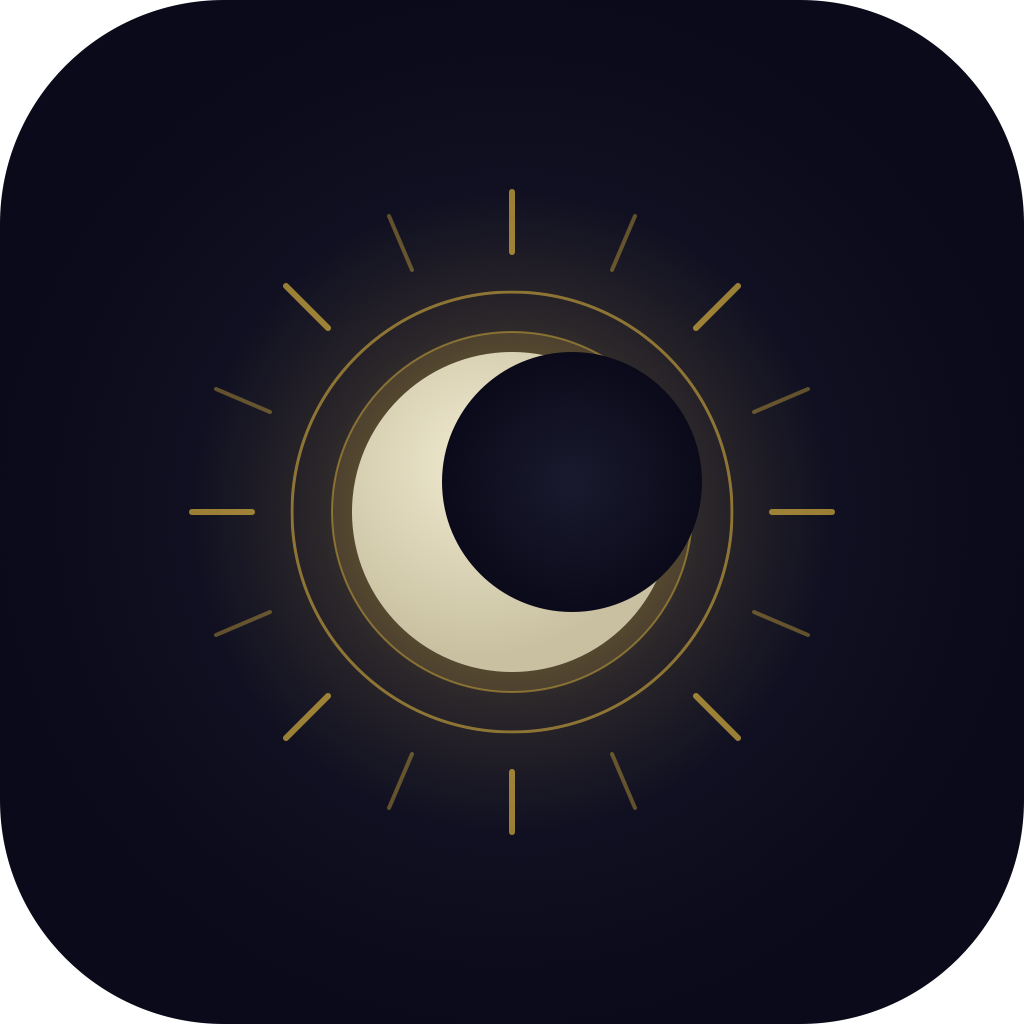
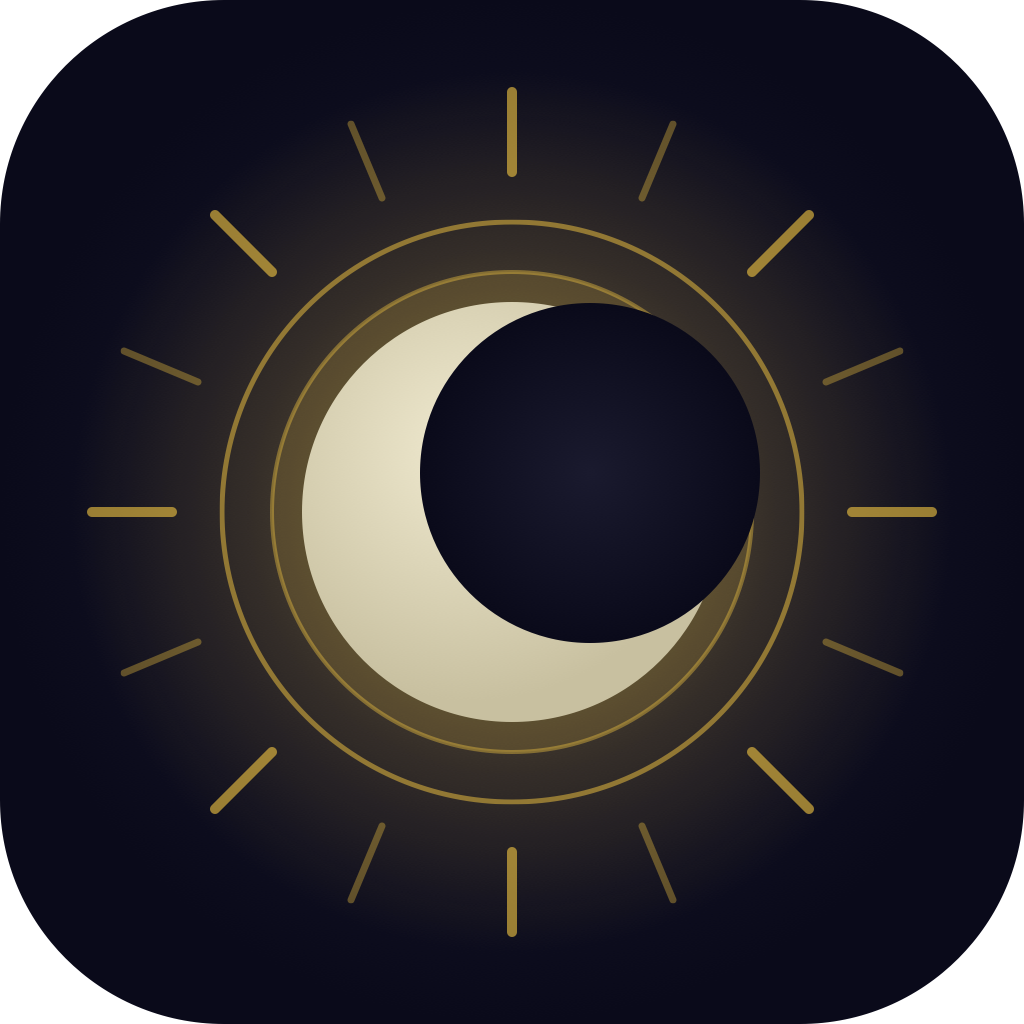
styles

diff --git a/src/components/SunClock.tsx b/src/components/SunClock.tsx
@@ -4,7 +4,7 @@ import { Browser } from '@capacitor/browser';
 
 const SVG_SIZE = 800;
 const CENTER = SVG_SIZE / 2;
-const ORBIT_RADIUS = 250;
+const ORBIT_RADIUS = 210;
 const DAY_CIRCLE_RADIUS = 85;
 const SUN_RADIUS = 34;
 const MOON_RING_RADIUS = 112;
@@ -331,19 +331,23 @@ function mulberry32(seed: number) {
 
 function generateStars(count: number, size: number) {
   const rng = mulberry32(42);
-  const stars: { x: number; y: number; r: number; opacity: number }[] = [];
+  const stars: { x: number; y: number; r: number; opacity: number; glow: boolean }[] = [];
   for (let i = 0; i < count; i++) {
+    const roll = rng();
+    const isBright = roll < 0.08;
+    const isMedium = roll >= 0.08 && roll < 0.25;
     stars.push({
       x: rng() * size,
       y: rng() * size,
-      r: rng() * 1.2 + 0.3,
-      opacity: rng() * 0.5 + 0.1,
+      r: isBright ? rng() * 1.5 + 1.5 : isMedium ? rng() * 0.8 + 0.8 : rng() * 0.6 + 0.2,
+      opacity: isBright ? rng() * 0.3 + 0.7 : isMedium ? rng() * 0.3 + 0.3 : rng() * 0.3 + 0.05,
+      glow: isBright,
     });
   }
   return stars;
 }
 
-const STARS = generateStars(120, SVG_SIZE);
+const STARS = generateStars(200, SVG_SIZE);
 
 // Weather icon SVG paths (based on Lucide icons, 24x24 viewBox)
 function WeatherSvgIcon({ type, x, y, size = 20 }: { type: string; x: number; y: number; size?: number }) {
@@ -424,7 +428,13 @@ export default function SunClock() {
   const [isMobile, setIsMobile] = useState(() => window.matchMedia(`(max-width: ${MOBILE_BREAKPOINT}px)`).matches);
   const [isSmallMobile, setIsSmallMobile] = useState(() => window.innerHeight < 750);
   const [showAbout, setShowAbout] = useState(false);
-  const [dynamicSky, setDynamicSky] = useState(() => localStorage.getItem('sunClock_dynamicSky') === 'true');
+  const [bgMode, setBgMode] = useState<'darkBlue' | 'black' | 'daylight'>(() => {
+    const saved = localStorage.getItem('sunClock_bgMode');
+    if (saved === 'black' || saved === 'daylight') return saved;
+    // Migrate old setting
+    if (localStorage.getItem('sunClock_dynamicSky') === 'true') return 'daylight';
+    return 'darkBlue';
+  });
   const [showWeather, setShowWeather] = useState(() => localStorage.getItem('sunClock_showWeather') === 'true');
   const [weatherIcon, setWeatherIcon] = useState<string | null>(null);
   const [weatherForecast, setWeatherForecast] = useState<string | null>(null);
@@ -553,9 +563,11 @@ export default function SunClock() {
   const currentMoonPhase = getMoonPhase(now);
 
   // Sky color based on time of day
-  const sky = dynamicSky
+  const sky = bgMode === 'daylight'
     ? getSkyColor(decimalHours, sunrise, sunset)
-    : { bg: 'rgb(0,0,0)', starOpacity: 1 };
+    : bgMode === 'black'
+      ? { bg: 'rgb(0,0,0)', starOpacity: 1 }
+      : { bg: 'rgb(22,22,52)', starOpacity: 1 };
 
   useEffect(() => {
     document.body.style.backgroundColor = sky.bg;
@@ -673,7 +685,7 @@ export default function SunClock() {
   );
 
   const headerBlock = (
-    <div style={{ padding: isMobile ? 'calc(20px + env(safe-area-inset-top)) 16px 0' : '24px 16px 0', fontFamily: 'system-ui, sans-serif', textAlign: isMobile ? 'center' : undefined }}>
+    <div style={{ padding: isMobile ? 'calc(32px + env(safe-area-inset-top)) 16px 0' : '24px 16px 0', fontFamily: 'system-ui, sans-serif', textAlign: isMobile ? 'center' : undefined }}>
       <div style={{ display: isMobile ? 'inline-block' : undefined, textAlign: 'left' }}>
         <div
           style={{
@@ -854,12 +866,13 @@ export default function SunClock() {
               fontSize: 14,
             }}
             onClick={() => {
-              const next = !dynamicSky;
-              setDynamicSky(next);
-              localStorage.setItem('sunClock_dynamicSky', String(next));
+              const modes: ('darkBlue' | 'black' | 'daylight')[] = ['darkBlue', 'black', 'daylight'];
+              const next = modes[(modes.indexOf(bgMode) + 1) % modes.length];
+              setBgMode(next);
+              localStorage.setItem('sunClock_bgMode', next);
             }}
           >
-            {dynamicSky ? 'Daylight' : 'Always Dark'}
+            {bgMode === 'darkBlue' ? 'Dark Blue' : bgMode === 'black' ? 'Black' : 'Daylight'}
           </div>
         </div>
         <div
@@ -946,7 +959,7 @@ export default function SunClock() {
     const earthVBy = ey - earthViewSize / 2;
 
     // Crop the orbit view to just the content area
-    const orbitPad = 95;
+    const orbitPad = 115;
     const orbitViewSize = (ORBIT_RADIUS + orbitPad) * 2;
     const orbitVBx = CENTER - ORBIT_RADIUS - orbitPad;
     const orbitVBy = CENTER - ORBIT_RADIUS - orbitPad;
@@ -960,14 +973,14 @@ export default function SunClock() {
         {/* Earth + moons — full width */}
         <svg
           viewBox={`${earthVBx} ${earthVBy} ${earthViewSize} ${earthViewSize}`}
-          style={{ width: isSmallMobile ? '72%' : '85%', height: 'auto', margin: '0 auto', display: 'block' }}
+          style={{ width: isSmallMobile ? '72%' : '85%', height: 'auto', margin: '-4px auto', display: 'block' }}
         >
           {moonRing}
           {earthContent}
         </svg>
 
         {/* Info button between clocks */}
-        <div style={{ display: 'flex', justifyContent: 'flex-end', padding: '0 20px' }}>
+        <div style={{ display: 'flex', justifyContent: 'flex-end', padding: '0 20px', margin: '-8px 0' }}>
           <div
             style={{
               width: 28,
@@ -994,10 +1007,13 @@ export default function SunClock() {
         {/* Sun view with earth icon on orbit — cropped tight */}
         <svg
           viewBox={`${orbitVBx} ${orbitVBy} ${orbitViewSize} ${orbitViewSize}`}
-          style={{ width: isSmallMobile ? '72%' : '85%', height: 'auto', margin: '0 auto', display: 'block' }}
+          style={{ width: isSmallMobile ? '72%' : '85%', height: 'auto', margin: '-4px auto', display: 'block' }}
         >
           {STARS.map((s, i) => (
-            <circle key={i} cx={s.x} cy={s.y} r={s.r} fill={`rgba(200, 210, 255, ${s.opacity * sky.starOpacity})`} />
+            <g key={i}>
+              {s.glow && <circle cx={s.x} cy={s.y} r={s.r * 3} fill={`rgba(180, 200, 255, ${s.opacity * sky.starOpacity * 0.15})`} />}
+              <circle cx={s.x} cy={s.y} r={s.r} fill={`rgba(220, 225, 255, ${s.opacity * sky.starOpacity})`} />
+            </g>
           ))}
           <circle cx={CENTER} cy={CENTER} r={ORBIT_RADIUS} fill="none" stroke={dayBlend > 0.5 ? '#888' : '#556'} strokeWidth={1.5} />
           {seasons.map((s) => (
